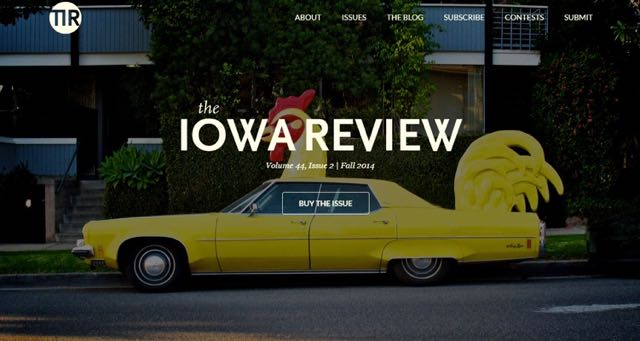
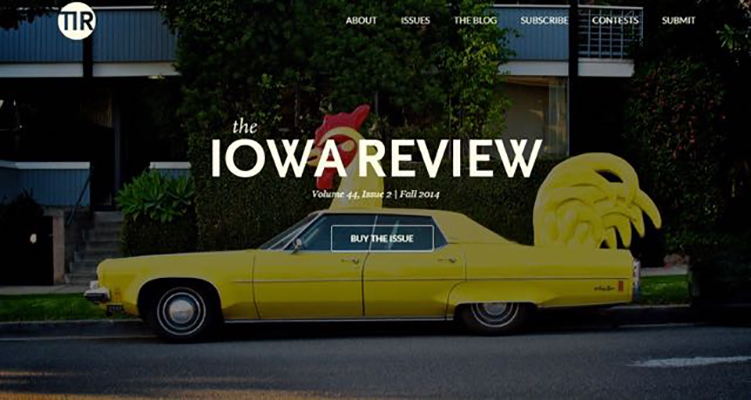
responsive img reszing css

diff --git a/css/creative.css b/css/creative.css
@@ -772,7 +772,7 @@ body {
 h3.web-design {
 }
 
-.web-design .img-responsive {min-height: 370px;}
+.web-design .img-responsive {width: 100%;}
 
 .web-headers {
 }
